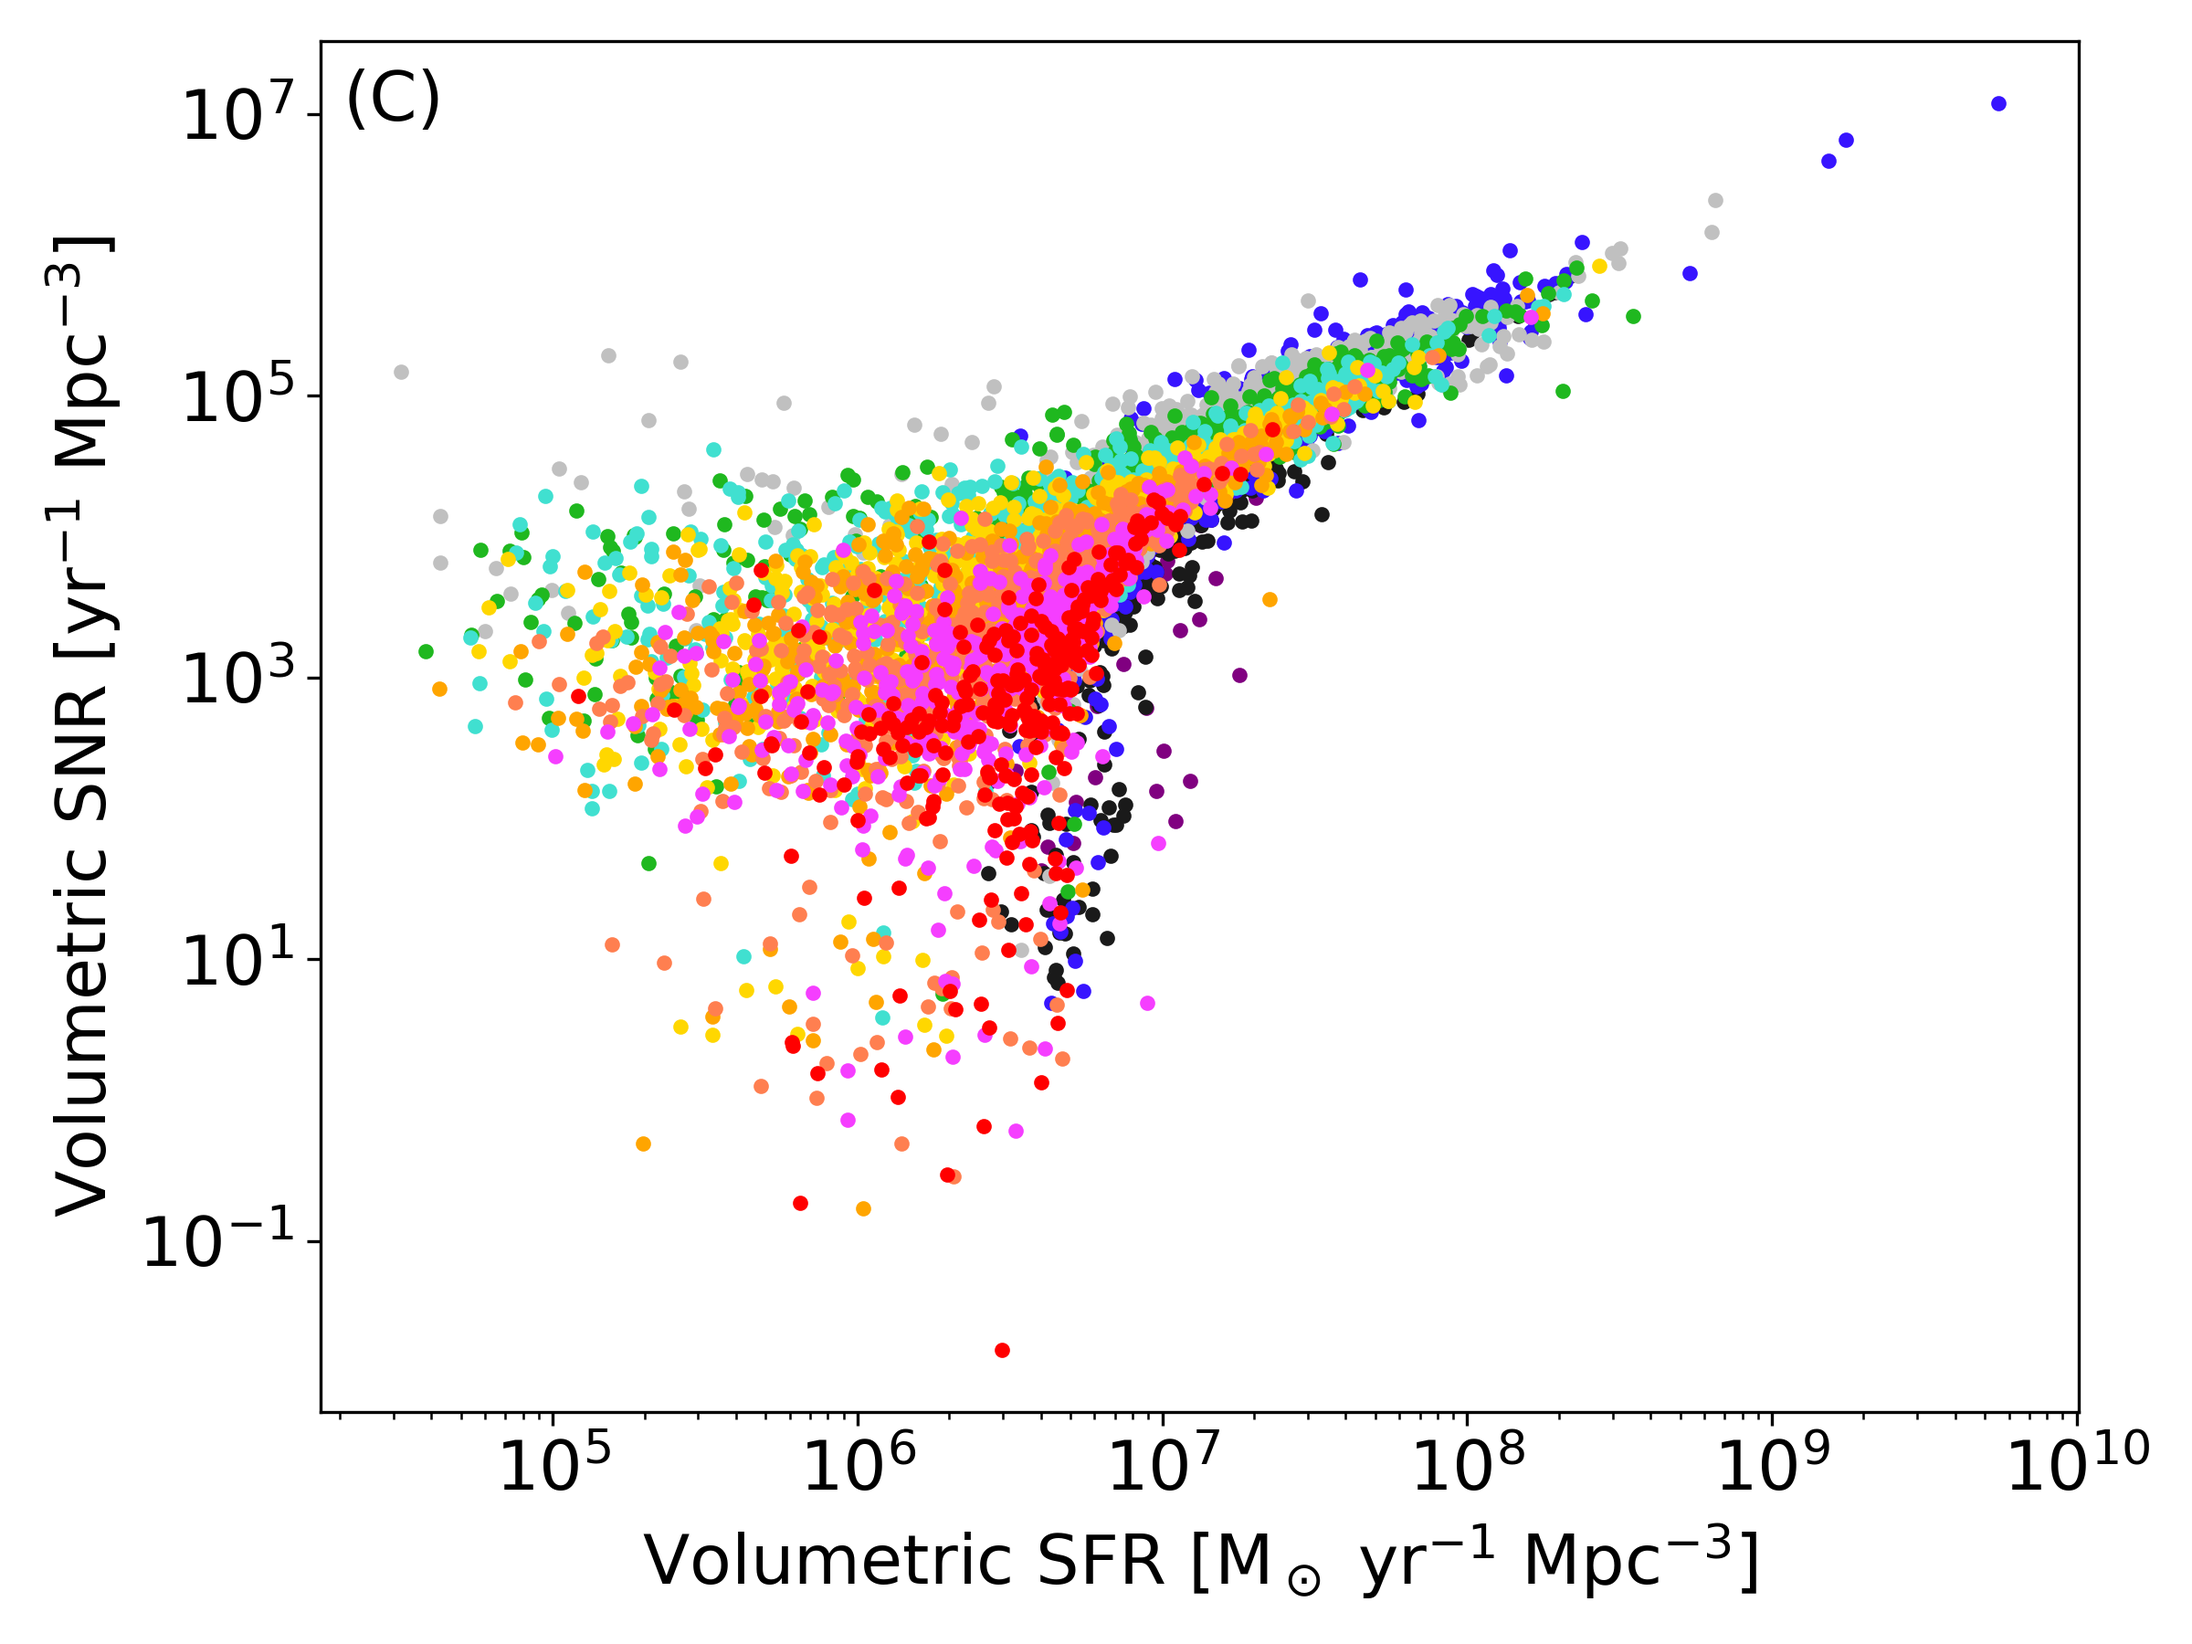
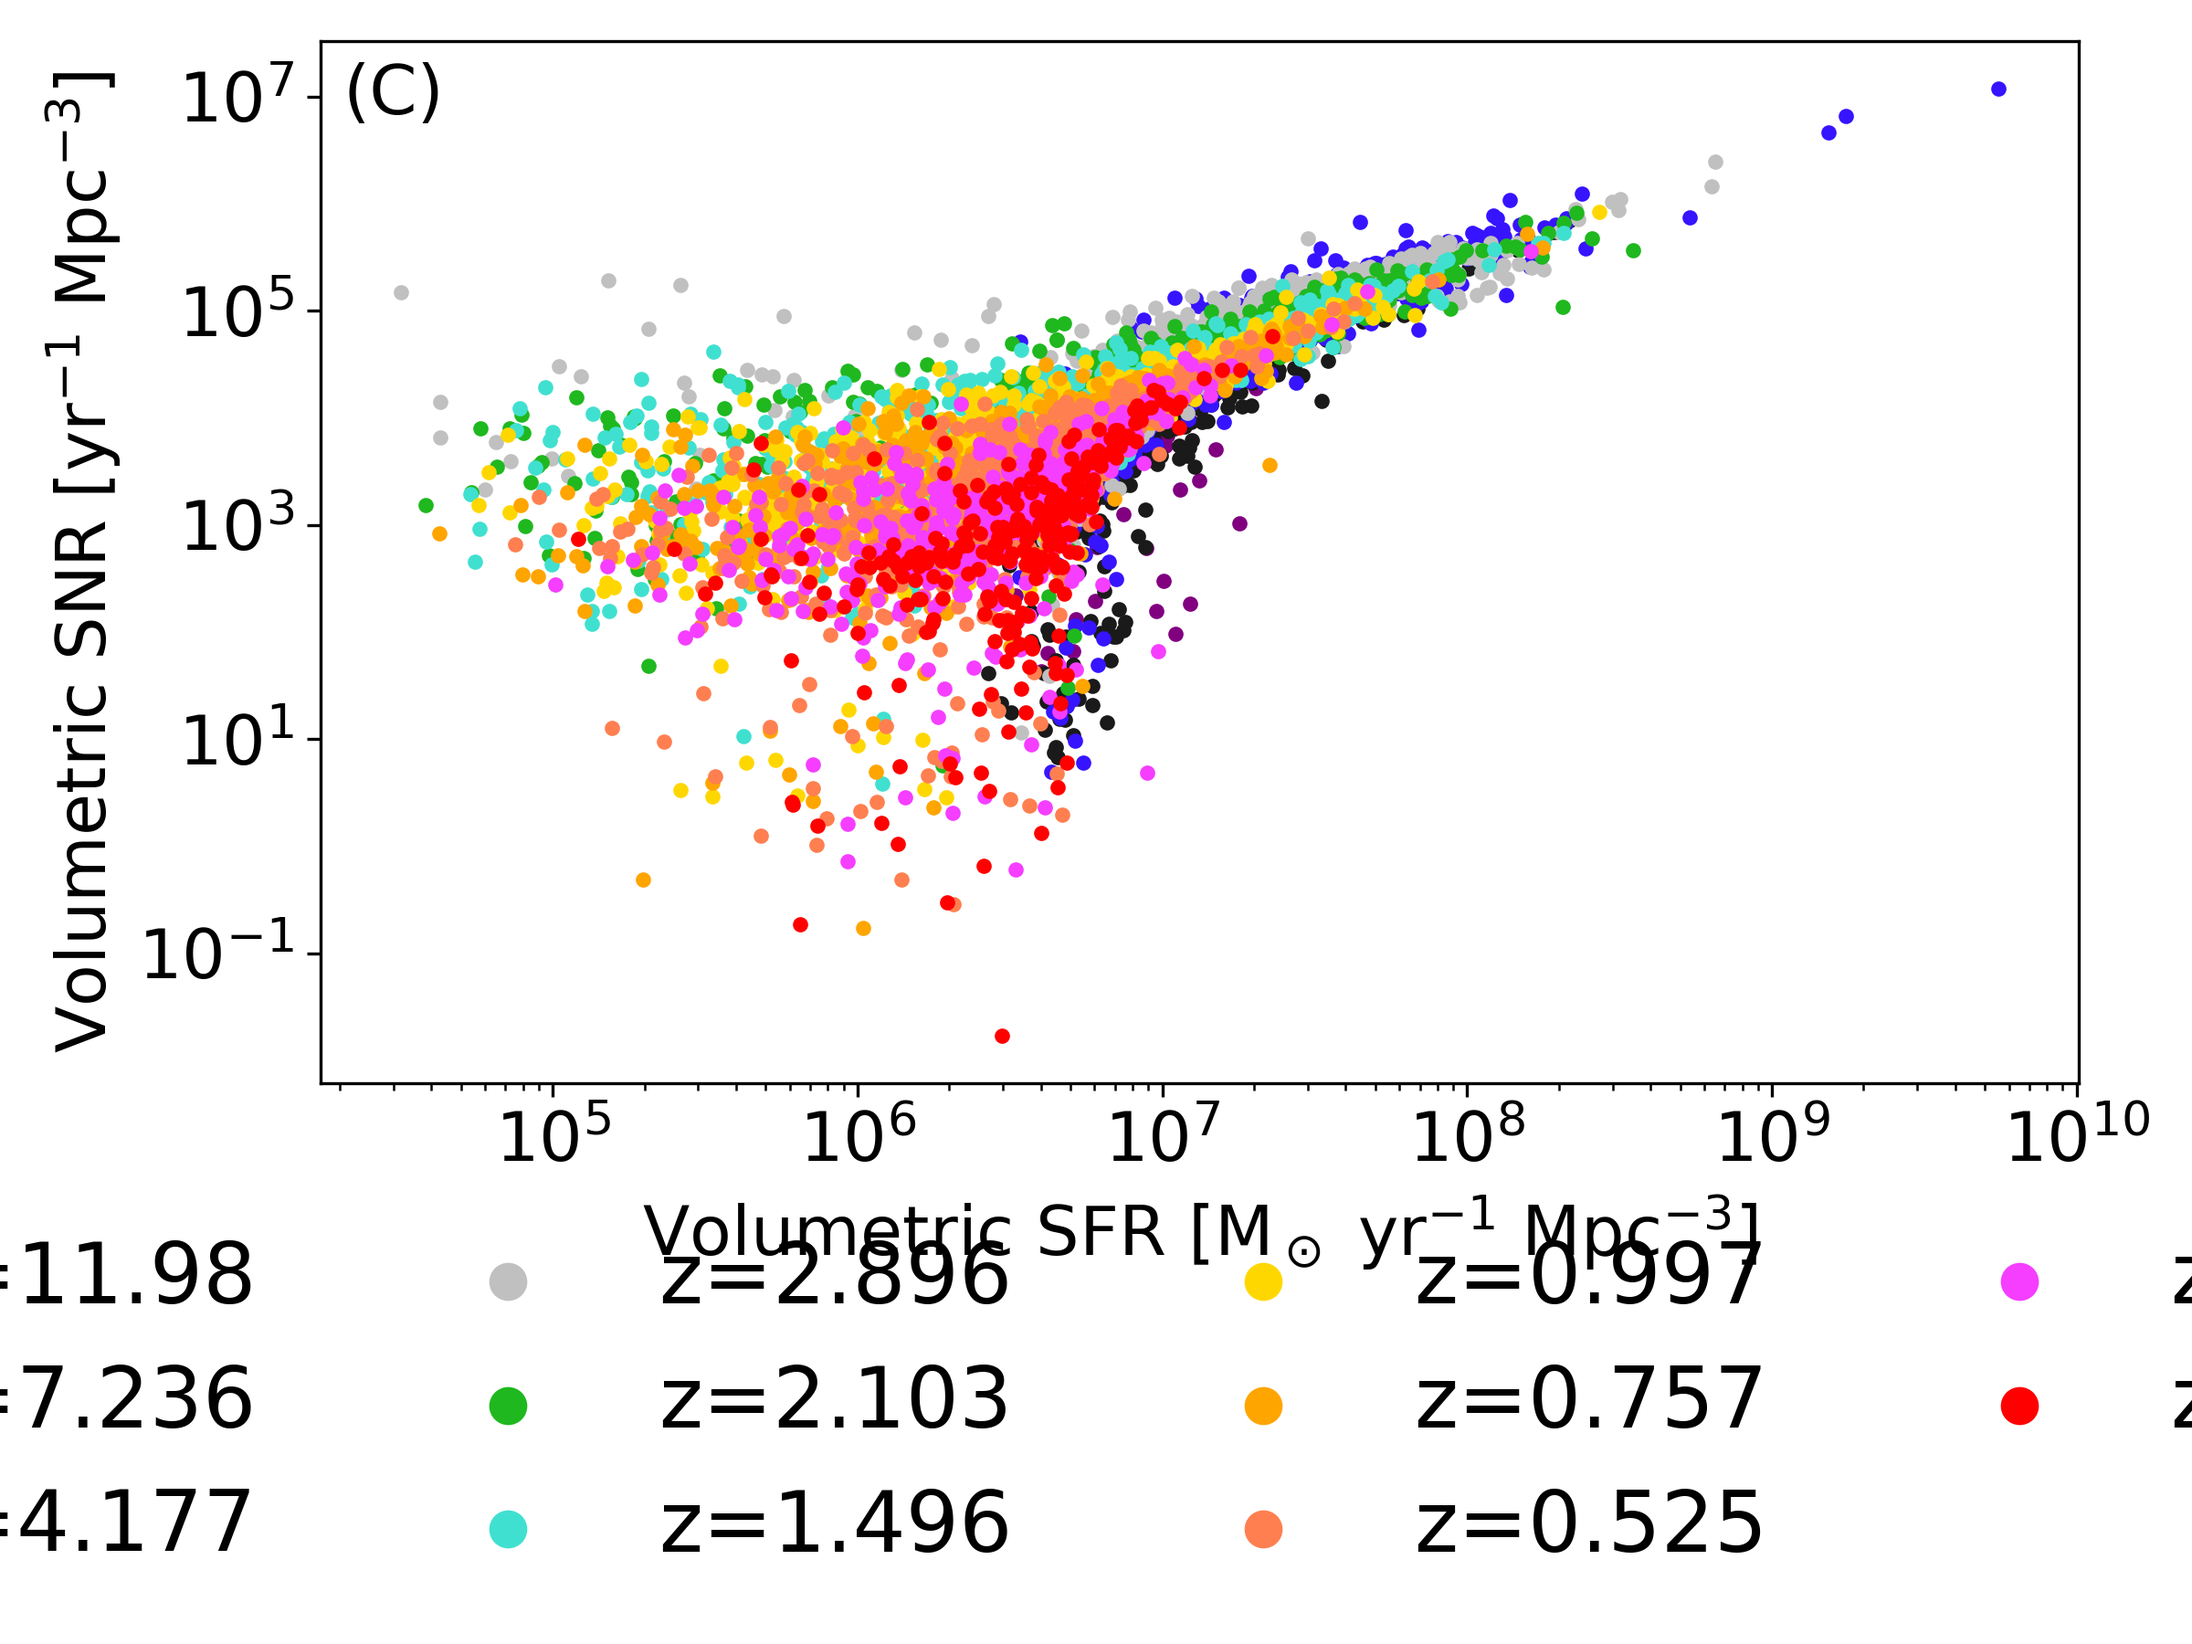
plots again

diff --git a/tng.py b/tng.py
@@ -271,12 +271,12 @@ def plt_helper(size1, size2, xlabel, ylabel, logx=True, logy=True, legendspace=N
 def plt_labels(fig, ax, col, gap=None):
     handles, labels = ax.get_legend_handles_labels()
     # tempoararily remove legend 
-    #fig.legend(handles, labels,loc='lower center',ncol=col, frameon=False, fontsize=22, markerscale=3)
+    fig.legend(handles, labels,loc='lower center',ncol=col, frameon=False, fontsize=22, markerscale=3)
 
     if gap != None:
-        #fig.tight_layout(rect=[0, gap, 1, 1])
+        fig.tight_layout(rect=[0, gap, 1, 1])
         # tempoararily remove legend 
-        fig.tight_layout(rect=[0, 0, 1, 1])
+        #fig.tight_layout(rect=[0, 0, 1, 1])
 
     return fig, ax
 
@@ -722,7 +722,7 @@ if build == True:
 _, redshifts = calculated_sfrd()
 rev_redshifts = np.array(redshifts)[::-1]
 redshift_linespace = np.linspace(rev_redshifts.min(), rev_redshifts.max(), 300)
-fig_types1, ax_types1, _ = plt_cosmo(rev_redshifts, r'Star Formation Rate Density [$\mathrm{yr^{-1}\ Mpc^{-3}}$]', space=0.25)
+fig_types1, ax_types1, _ = plt_cosmo(rev_redshifts, r'Supernova Rate Density [$\mathrm{yr^{-1}\ Mpc^{-3}}$]', space=0.25)
 fig_types2, ax_types2, _ = plt_cosmo(rev_redshifts, r'Volumetric SFR [$\mathrm{yr^{-1}\ Mpc^{-3}}$]', space=0.2)
 
 fig_total_sfr, ax_total_sfr, _ = plt_cosmo(rev_redshifts, r'Star Formation Rate Density [$\mathrm{M_\odot\ yr^{-1}\ Mpc^{-3}}$]', space=0.3, ytwin=None)
